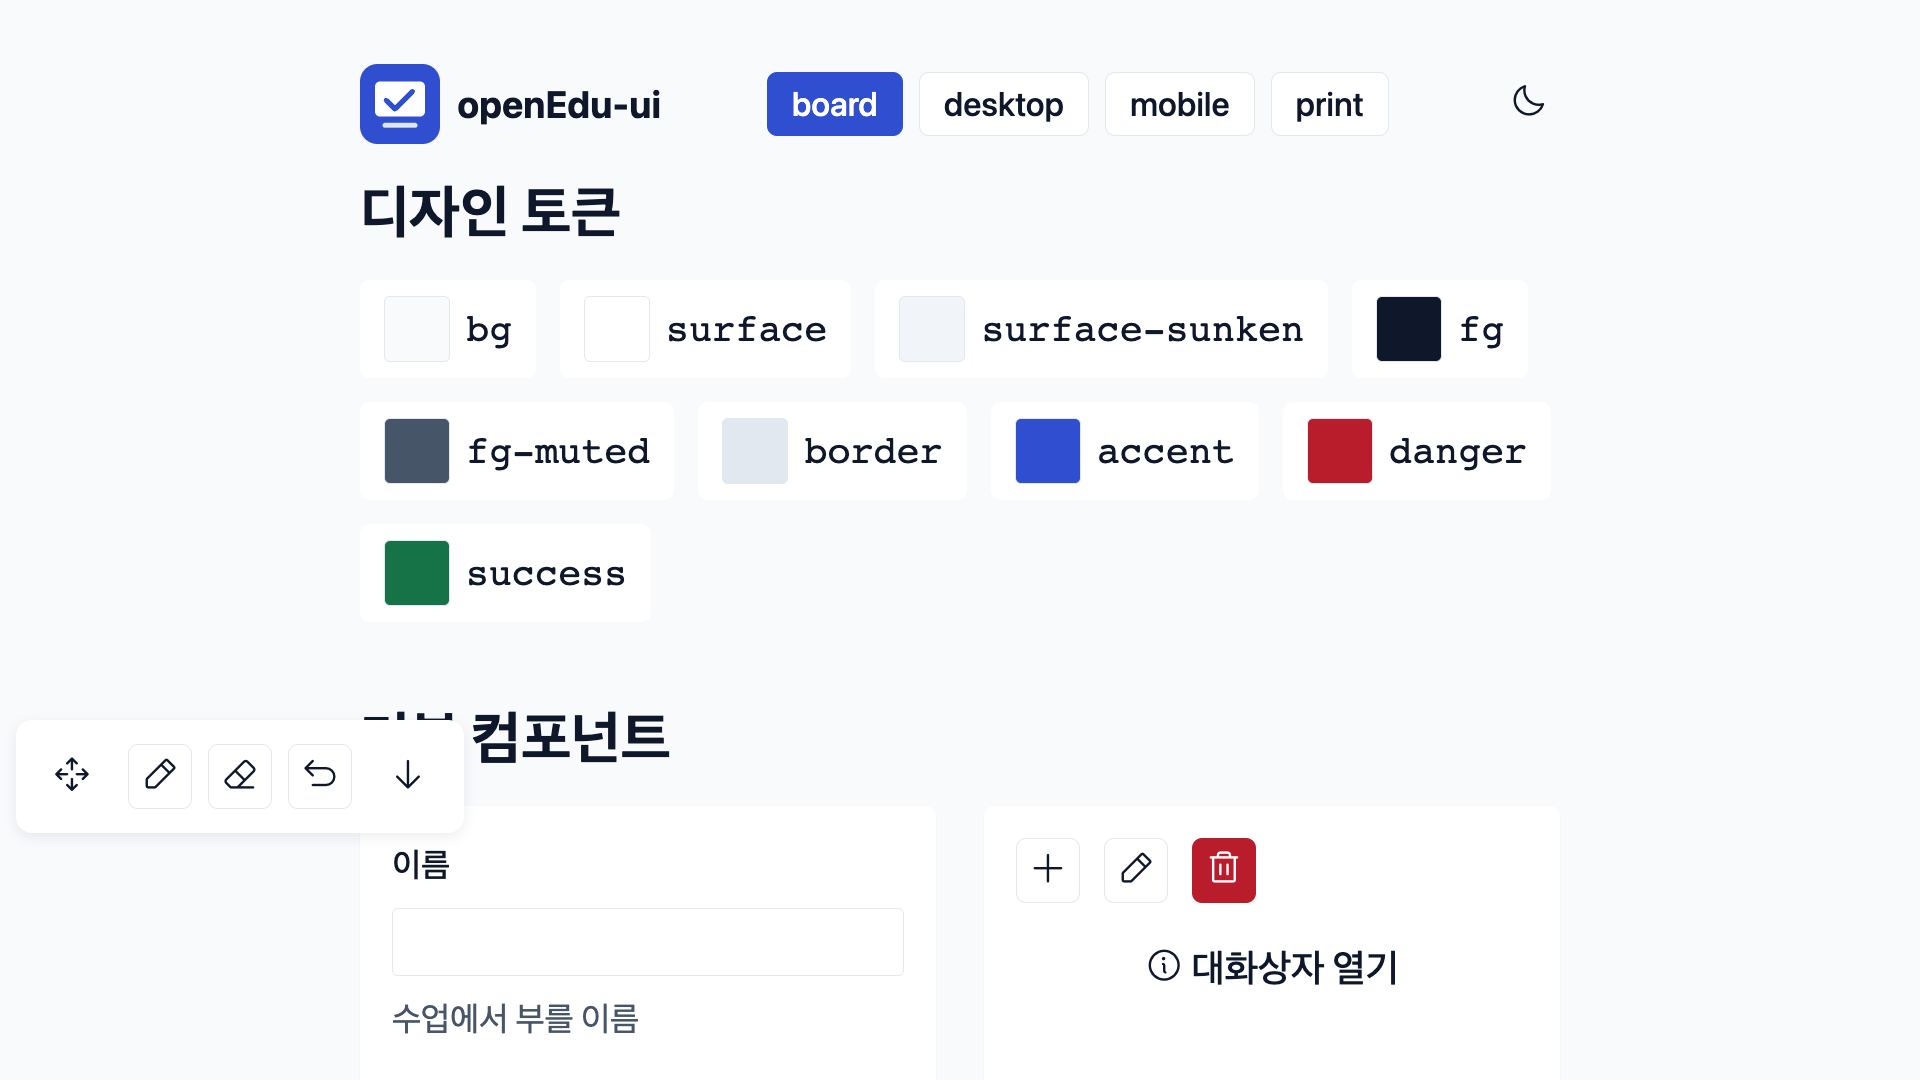
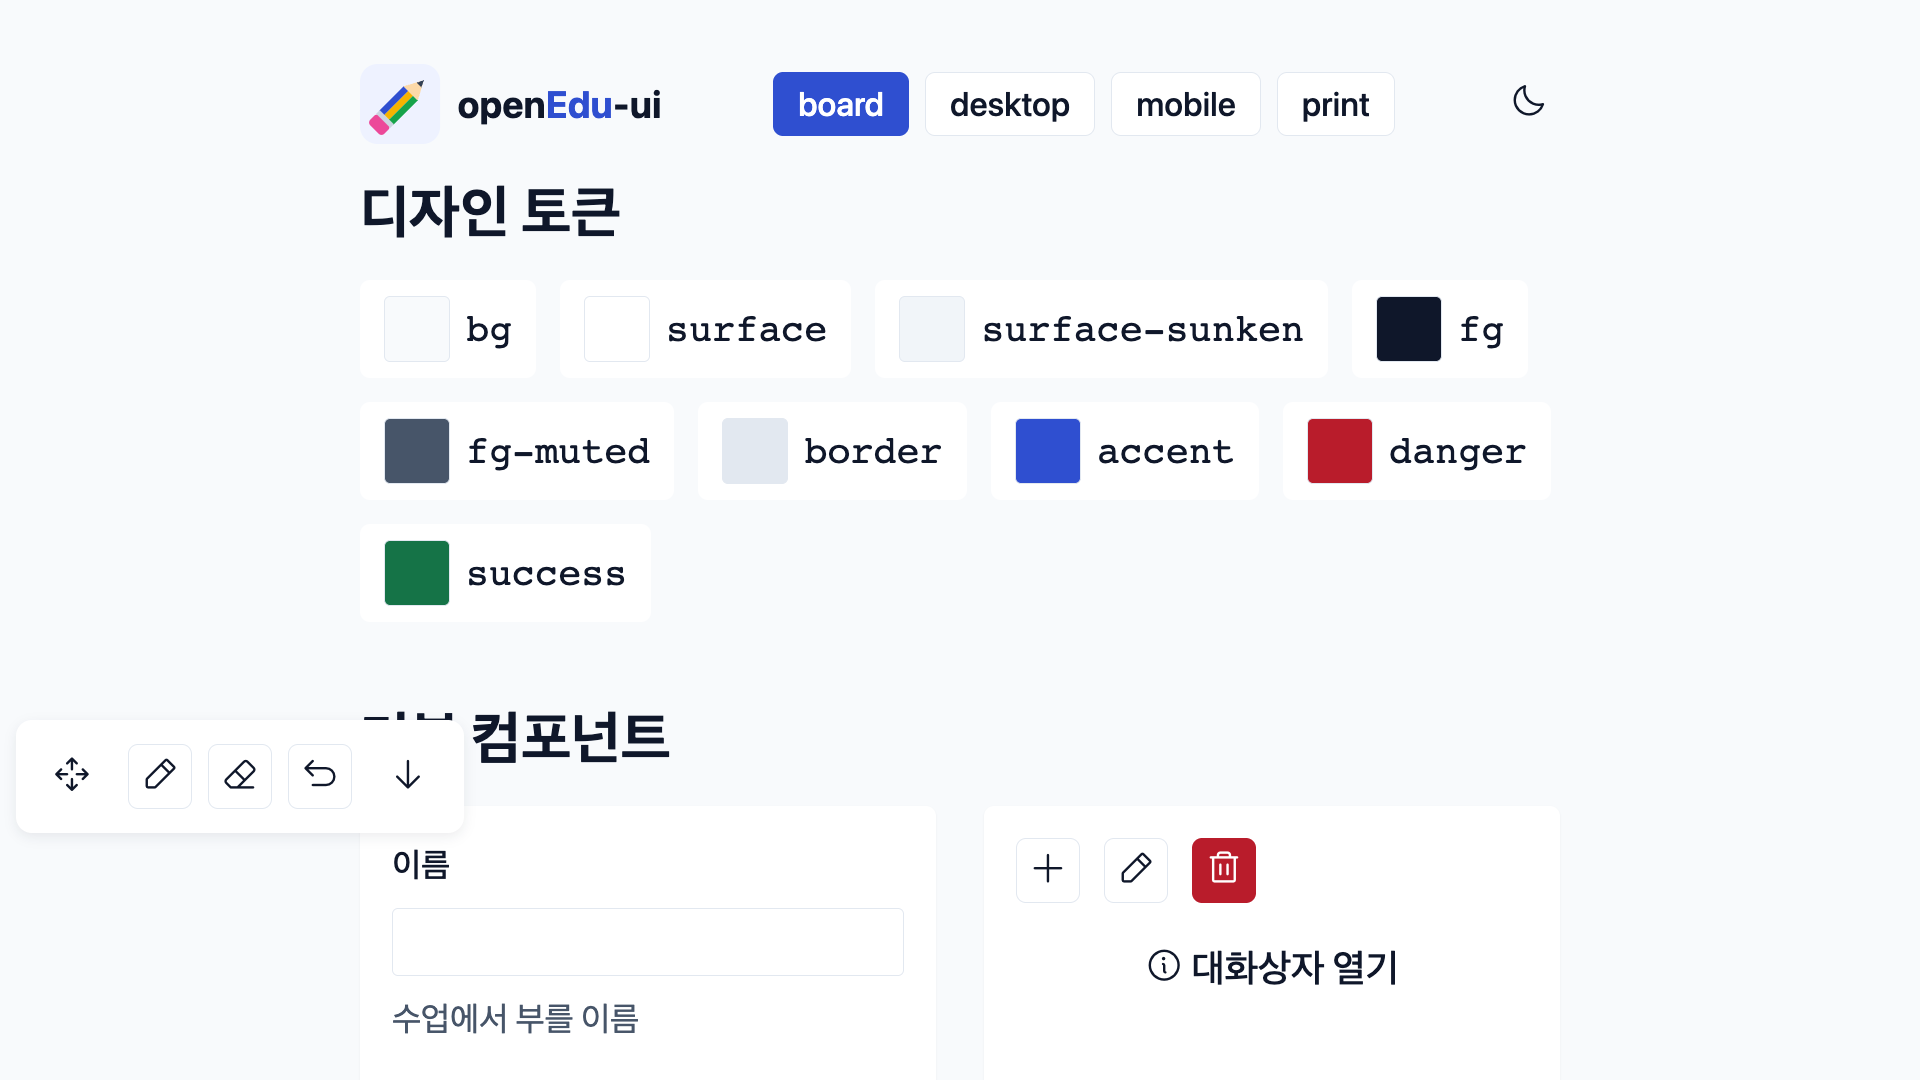
feat: 메인 로고를 컬러풀한 연필 모양으로 변경 (#18)
파랑·노랑·초록 줄무늬 몸통, 분홍 지우개, 나무와 흑연 심으로 된 연필 마크로
favicon.svg와 logo.svg(워드마크의 Edu 강조, 다크 모드 대응)를 새로 그리고
앱 아이콘, favicon.ico, apple-touch-icon, PWA 아이콘을 SVG에서 다시 내보낸다.

diff --git a/DESIGN.md b/DESIGN.md
@@ -102,7 +102,7 @@ first deploy:
 
 | Asset                       | Source of truth                                    |
 | --------------------------- | -------------------------------------------------- |
-| `favicon.svg` (+ `.ico`, 32/180/192/512 PNG) | logo mark, `--color-accent` on `--color-bg` |
+| `favicon.svg` (+ `.ico`, 32/180/192/512 PNG) | logo mark: colorful pencil (accent blue, yellow, green, pink) on a soft indigo tile |
 | `logo.svg` (mark + wordmark variants)        | project identity, token palette         |
 | `apple-touch-icon.png` (180×180)             | exported from `favicon.svg`             |
 | PWA/manifest icons (192/512)                 | exported from `favicon.svg`             |
